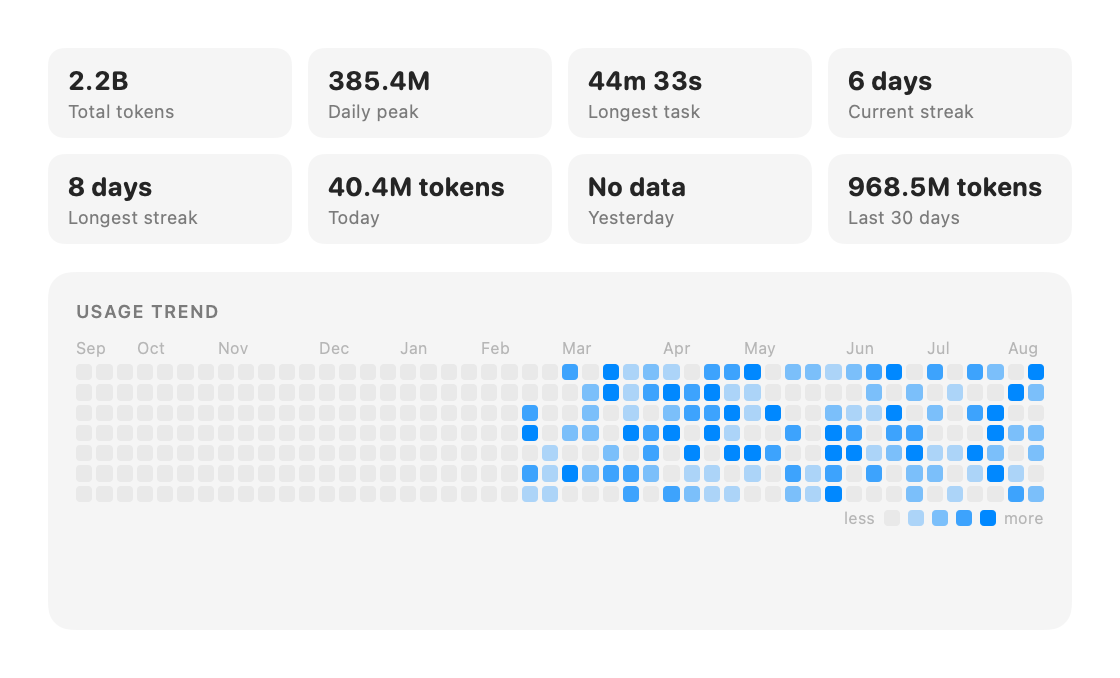
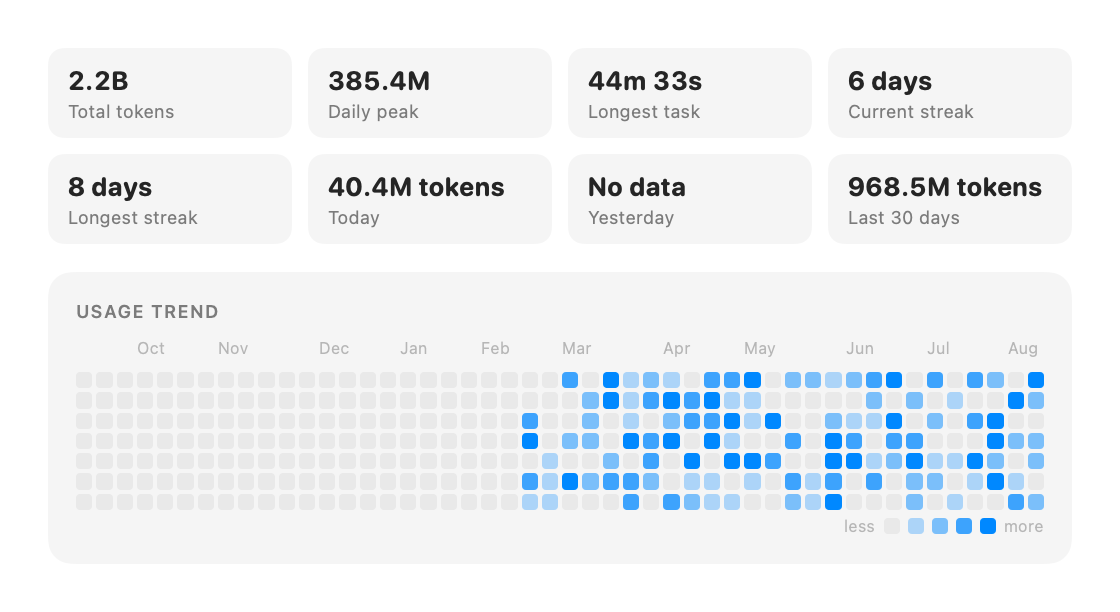
fix(ui): heatmap sem altura fixa — Layout customizado no lugar de GeometryReader
Revisão de qualidade da Task 7 reprovou o .frame(height: 132): valor mágico
que não batia com a altura real do conteúdo (varia com metrics.cell, entre
~97pt e ~153pt conforme a largura), sobrando ~32pt de fundo vazio no caso
comum e cortando no extremo de célula no teto. Troca GeometryReader + altura
fixa por dois Layout customizados (HeatmapMonthLabelsLayout,
HeatmapGridLayout) que calculam a própria altura a partir de
HeatmapLayout.metrics, sem nenhum valor hardcoded — e mantêm a centralização
para o extremo de largura grande já introduzida na rodada anterior. Corrige
também um bug pego na própria verificação visual: rótulo de mês de coluna
oculta continuava desenhando por cima do primeiro rótulo visível porque
.fixedSize() ignora proposal: .zero — corrigido movendo subviews ocultas
para fora da área visível em vez de só zerar o tamanho proposto.

diff --git a/Sources/OkTally/UI/AnalyticsSection.swift b/Sources/OkTally/UI/AnalyticsSection.swift
@@ -81,47 +81,62 @@ struct AnalyticsSection: View {
 
 /// Heatmap de contribuições: colunas = semanas (dom–sáb), intensidade por quartil dos
 /// dias ativos (`TokenAnalytics.heatLevels`). Tooltip por célula com o valor exato.
+///
+/// Fix round 1 (revisão de qualidade): a versão anterior usava `GeometryReader` +
+/// `.frame(height: 132)` fixo. `GeometryReader` não tem tamanho intrínseco — ele adota
+/// o que for proposto — então o `132` era um número inventado para não colapsar a zero,
+/// e não batia com a altura real do conteúdo (que varia com `metrics.cell`, entre ~97pt
+/// e ~153pt conforme a largura). Agora o heatmap usa dois `Layout` customizados
+/// (`HeatmapMonthLabelsLayout` e `HeatmapGridLayout`) que calculam a própria altura a
+/// partir de `HeatmapLayout.metrics`, sem nenhum valor fixo — a altura do `VStack` vira a
+/// soma natural das alturas dos filhos.
 struct TokenHeatmapView: View {
     let analytics: TokenAnalytics
 
     private static let gap: CGFloat = 2
+    /// Mesmo teto do `maxWeeks` default de `HeatmapLayout.metrics` — gera o calendário
+    /// completo uma vez; os Layouts decidem quantas colunas finais (mais recentes) cabem
+    /// na largura disponível.
+    private static let totalWeeks = 53
 
     private struct Day: Identifiable {
         let id: String
         let date: Date
         let tokens: Int?
         let level: Int
+        let column: Int
+        let row: Int
+    }
+
+    private struct MonthLabelEntry: Identifiable {
+        let id: Int
+        let column: Int
+        let label: String
     }
 
     var body: some View {
-        GeometryReader { geo in
-            let metrics = HeatmapLayout.metrics(availableWidth: geo.size.width)
-            let columns = makeColumns(weeks: metrics.weeks)
-            // Em larguras muito grandes, semanas (53) e célula (maxCell) travam no limite
-            // do calendário e sobra espaço de novo — aí centralizamos em vez de grudar
-            // o grid à esquerda com um vão vazio.
-            let gridWidth = CGFloat(metrics.weeks) * metrics.cell + CGFloat(max(0, metrics.weeks - 1)) * Self.gap
-            let leadingInset = max(0, (geo.size.width - gridWidth) / 2)
-            VStack(alignment: .leading, spacing: 3) {
-                monthLabels(columns, cell: metrics.cell)
-                    .padding(.leading, leadingInset)
-                HStack(alignment: .top, spacing: Self.gap) {
-                    ForEach(Array(columns.enumerated()), id: \.offset) { _, column in
-                        VStack(spacing: Self.gap) {
-                            ForEach(column) { day in
-                                RoundedRectangle(cornerRadius: 2)
-                                    .fill(color(level: day.level))
-                                    .frame(width: metrics.cell, height: metrics.cell)
-                                    .help(tooltip(day))
-                            }
-                        }
-                    }
+        let days = makeAllDays()
+        let totalColumns = (days.map(\.column).max() ?? -1) + 1
+        VStack(alignment: .leading, spacing: 3) {
+            HeatmapMonthLabelsLayout(gap: Self.gap, totalColumns: totalColumns) {
+                ForEach(monthLabelEntries(days: days, totalColumns: totalColumns)) { entry in
+                    Text(entry.label)
+                        .font(.system(size: 8))
+                        .foregroundStyle(.tertiary)
+                        .fixedSize()
+                        .layoutValue(key: HeatmapColumnKey.self, value: entry.column)
                 }
-                .padding(.leading, leadingInset)
-                legend
             }
+            HeatmapGridLayout(gap: Self.gap, totalColumns: totalColumns) {
+                ForEach(days) { day in
+                    RoundedRectangle(cornerRadius: 2)
+                        .fill(color(level: day.level))
+                        .help(tooltip(day))
+                        .layoutValue(key: HeatmapColumnRowKey.self, value: (day.column, day.row))
+                }
+            }
+            legend
         }
-        .frame(height: 132)
     }
 
     /// Legenda "menos → mais", ausente na versão antiga.
@@ -138,60 +153,64 @@ struct TokenHeatmapView: View {
         }
     }
 
-    private func monthLabels(_ columns: [[Day]], cell: CGFloat) -> some View {
+    /// Um rótulo por coluna (vazio quando o mês não mudou em relação à coluna anterior),
+    /// calculado sobre a sequência completa de `totalColumns`. Como a decisão de quantas
+    /// colunas finais aparecem é feita dentro do `Layout` (que só conhece a largura em
+    /// tempo de posicionamento), não dá para "reiniciar" a detecção de mudança de mês só
+    /// para a primeira coluna visível — o texto já precisa existir antes disso. Efeito
+    /// colateral aceito: em larguras que cortam bem no meio de um mês, a primeira coluna
+    /// visível pode não ter rótulo (o mês já teria sido anunciado numa coluna oculta).
+    private func monthLabelEntries(days: [Day], totalColumns: Int) -> [MonthLabelEntry] {
         let fmt = DateFormatter()
         fmt.locale = Locale.current
         fmt.setLocalizedDateFormatFromTemplate("MMM")
         let calendar = Calendar(identifier: .gregorian)
+        var firstDateByColumn: [Int: Date] = [:]
+        for day in days where firstDateByColumn[day.column] == nil {
+            firstDateByColumn[day.column] = day.date
+        }
         var previousMonth = -1
-        var labels: [String] = []
-        for column in columns {
-            let month = column.first.map { calendar.component(.month, from: $0.date) } ?? -1
-            if month != previousMonth, let first = column.first {
-                labels.append(fmt.string(from: first.date))
+        var entries: [MonthLabelEntry] = []
+        for column in 0..<max(0, totalColumns) {
+            guard let date = firstDateByColumn[column] else {
+                entries.append(MonthLabelEntry(id: column, column: column, label: ""))
+                continue
+            }
+            let month = calendar.component(.month, from: date)
+            if month != previousMonth {
+                entries.append(MonthLabelEntry(id: column, column: column, label: fmt.string(from: date)))
                 previousMonth = month
             } else {
-                labels.append("")
+                entries.append(MonthLabelEntry(id: column, column: column, label: ""))
             }
         }
-        // ZStack com offsets absolutos: um frame por coluna truncaria o nome do mês na
-        // largura da célula (10 pt).
-        return ZStack(alignment: .topLeading) {
-            Color.clear.frame(height: 10)
-            ForEach(Array(labels.enumerated()), id: \.offset) { index, label in
-                if !label.isEmpty {
-                    Text(label)
-                        .font(.system(size: 8))
-                        .foregroundStyle(.tertiary)
-                        .fixedSize()
-                        .offset(x: CGFloat(index) * (cell + Self.gap))
-                }
-            }
-        }
+        return entries
     }
 
-    private func makeColumns(weeks: Int) -> [[Day]] {
+    /// Gera o calendário completo (`totalWeeks` semanas, dom–sáb), com `column`/`row` já
+    /// atribuídos — `column` cresce do passado (0) para o presente, `row` é o dia da
+    /// semana (0 = domingo). Os `Layout`s decidem depois quantas colunas finais mostrar.
+    private func makeAllDays() -> [Day] {
         let calendar = Calendar(identifier: .gregorian)
         let today = calendar.startOfDay(for: Date())
         let weekdayIndex = calendar.component(.weekday, from: today) - 1 // 0 = domingo
+        let weeks = Self.totalWeeks
         guard let firstCell = calendar.date(byAdding: .day, value: -((weeks - 1) * 7 + weekdayIndex), to: today) else {
             return []
         }
         let levels = analytics.heatLevels()
         let tokensByDay = Dictionary(uniqueKeysWithValues: analytics.dailyBuckets.map { ($0.day, $0.tokens) })
 
-        var columns: [[Day]] = []
+        var days: [Day] = []
         for week in 0..<weeks {
-            var column: [Day] = []
             for weekday in 0..<7 {
                 guard let date = calendar.date(byAdding: .day, value: week * 7 + weekday, to: firstCell),
                       date <= today else { continue }
                 let key = AnalyticsSection.dayKey(date)
-                column.append(Day(id: key, date: date, tokens: tokensByDay[key], level: levels[key] ?? 0))
+                days.append(Day(id: key, date: date, tokens: tokensByDay[key], level: levels[key] ?? 0, column: week, row: weekday))
             }
-            if !column.isEmpty { columns.append(column) }
         }
-        return columns
+        return days
     }
 
     private func color(level: Int) -> Color {
@@ -211,5 +230,103 @@ struct TokenHeatmapView: View {
         let dateLabel = fmt.string(from: day.date)
         guard let tokens = day.tokens, tokens > 0 else { return LF("%@: sem uso", dateLabel) }
         return LF("%@: %@ tokens", dateLabel, TokenAnalytics.compactTokens(tokens))
+    }
+}
+
+/// Chaves de `layoutValue` usadas pelos `Layout`s do heatmap para saber em qual
+/// coluna/linha cada subview lógica deve ser posicionada — a alternativa a embutir
+/// `.frame(width:height:)`/offsets fixos em cada célula.
+private struct HeatmapColumnKey: LayoutValueKey {
+    static let defaultValue: Int = 0
+}
+
+private struct HeatmapColumnRowKey: LayoutValueKey {
+    static let defaultValue: (column: Int, row: Int) = (0, 0)
+}
+
+/// Posiciona um rótulo de mês por coluna, nas mesmas coordenadas X do `HeatmapGridLayout`
+/// correspondente. Sem altura fixa: a altura vem do tamanho natural do texto
+/// (`sizeThatFits`). A largura reportada é a proposta pelo pai (para não encolher o
+/// `VStack` quando o grid não preenche tudo); internamente as colunas ficam centralizadas
+/// se `HeatmapLayout.metrics` travar nos tetos de célula/semanas antes de consumir toda a
+/// largura (larguras muito grandes).
+private struct HeatmapMonthLabelsLayout: Layout {
+    let gap: CGFloat
+    let totalColumns: Int
+
+    func sizeThatFits(proposal: ProposedViewSize, subviews: Subviews, cache: inout ()) -> CGSize {
+        guard totalColumns > 0 else { return .zero }
+        let metrics = HeatmapLayout.metrics(availableWidth: proposal.width ?? 0, gap: gap)
+        let shown = min(metrics.weeks, totalColumns)
+        let gridWidth = CGFloat(shown) * metrics.cell + CGFloat(max(0, shown - 1)) * gap
+        let width = proposal.width ?? gridWidth
+        let height = subviews.map { $0.sizeThatFits(.unspecified).height }.max() ?? 0
+        return CGSize(width: width, height: height)
+    }
+
+    func placeSubviews(in bounds: CGRect, proposal: ProposedViewSize, subviews: Subviews, cache: inout ()) {
+        guard totalColumns > 0, !subviews.isEmpty else { return }
+        let metrics = HeatmapLayout.metrics(availableWidth: proposal.width ?? 0, gap: gap)
+        let shown = min(metrics.weeks, totalColumns)
+        let hidden = totalColumns - shown
+        let gridWidth = CGFloat(shown) * metrics.cell + CGFloat(max(0, shown - 1)) * gap
+        let leadingInset = max(0, (bounds.width - gridWidth) / 2)
+        for subview in subviews {
+            let column = subview[HeatmapColumnKey.self]
+            guard column >= hidden else {
+                // `.fixedSize()` no rótulo ignora o `proposal: .zero` e desenha no tamanho
+                // natural mesmo assim — por isso não basta propor zero, é preciso tirar a
+                // subview de cena (senão o rótulo de uma coluna oculta sobrepõe o da
+                // primeira coluna visível).
+                subview.place(at: CGPoint(x: bounds.minX - 10_000, y: bounds.minY), proposal: .zero)
+                continue
+            }
+            let visibleColumn = column - hidden
+            let x = bounds.minX + leadingInset + CGFloat(visibleColumn) * (metrics.cell + gap)
+            subview.place(at: CGPoint(x: x, y: bounds.minY), anchor: .topLeading, proposal: .unspecified)
+        }
+    }
+}
+
+/// Posiciona as células do grid por (coluna, linha), forçando `cell × cell` em cada uma
+/// via o `proposal` passado a `place(...)` — não há `.frame(width:height:)` fixo em
+/// nenhuma célula. Altura sempre `7 × cell + 6 × gap` (7 dias da semana), calculada a
+/// partir de `metrics.cell`; nunca um valor fixo. Mesma centralização de
+/// `HeatmapMonthLabelsLayout` para o caso de largura muito grande.
+private struct HeatmapGridLayout: Layout {
+    let gap: CGFloat
+    let totalColumns: Int
+    private let rows = 7
+
+    func sizeThatFits(proposal: ProposedViewSize, subviews: Subviews, cache: inout ()) -> CGSize {
+        guard totalColumns > 0 else { return .zero }
+        let metrics = HeatmapLayout.metrics(availableWidth: proposal.width ?? 0, gap: gap)
+        let shown = min(metrics.weeks, totalColumns)
+        let gridWidth = CGFloat(shown) * metrics.cell + CGFloat(max(0, shown - 1)) * gap
+        let width = proposal.width ?? gridWidth
+        let height = CGFloat(rows) * metrics.cell + CGFloat(rows - 1) * gap
+        return CGSize(width: width, height: height)
+    }
+
+    func placeSubviews(in bounds: CGRect, proposal: ProposedViewSize, subviews: Subviews, cache: inout ()) {
+        guard totalColumns > 0, !subviews.isEmpty else { return }
+        let metrics = HeatmapLayout.metrics(availableWidth: proposal.width ?? 0, gap: gap)
+        let shown = min(metrics.weeks, totalColumns)
+        let hidden = totalColumns - shown
+        let gridWidth = CGFloat(shown) * metrics.cell + CGFloat(max(0, shown - 1)) * gap
+        let leadingInset = max(0, (bounds.width - gridWidth) / 2)
+        for subview in subviews {
+            let (column, row) = subview[HeatmapColumnRowKey.self]
+            guard column >= hidden else {
+                // Mesmo cuidado do HeatmapMonthLabelsLayout: tira a subview de cena em vez
+                // de confiar só no proposal zero.
+                subview.place(at: CGPoint(x: bounds.minX - 10_000, y: bounds.minY), proposal: .zero)
+                continue
+            }
+            let visibleColumn = column - hidden
+            let x = bounds.minX + leadingInset + CGFloat(visibleColumn) * (metrics.cell + gap)
+            let y = bounds.minY + CGFloat(row) * (metrics.cell + gap)
+            subview.place(at: CGPoint(x: x, y: y), proposal: ProposedViewSize(width: metrics.cell, height: metrics.cell))
+        }
     }
 }
